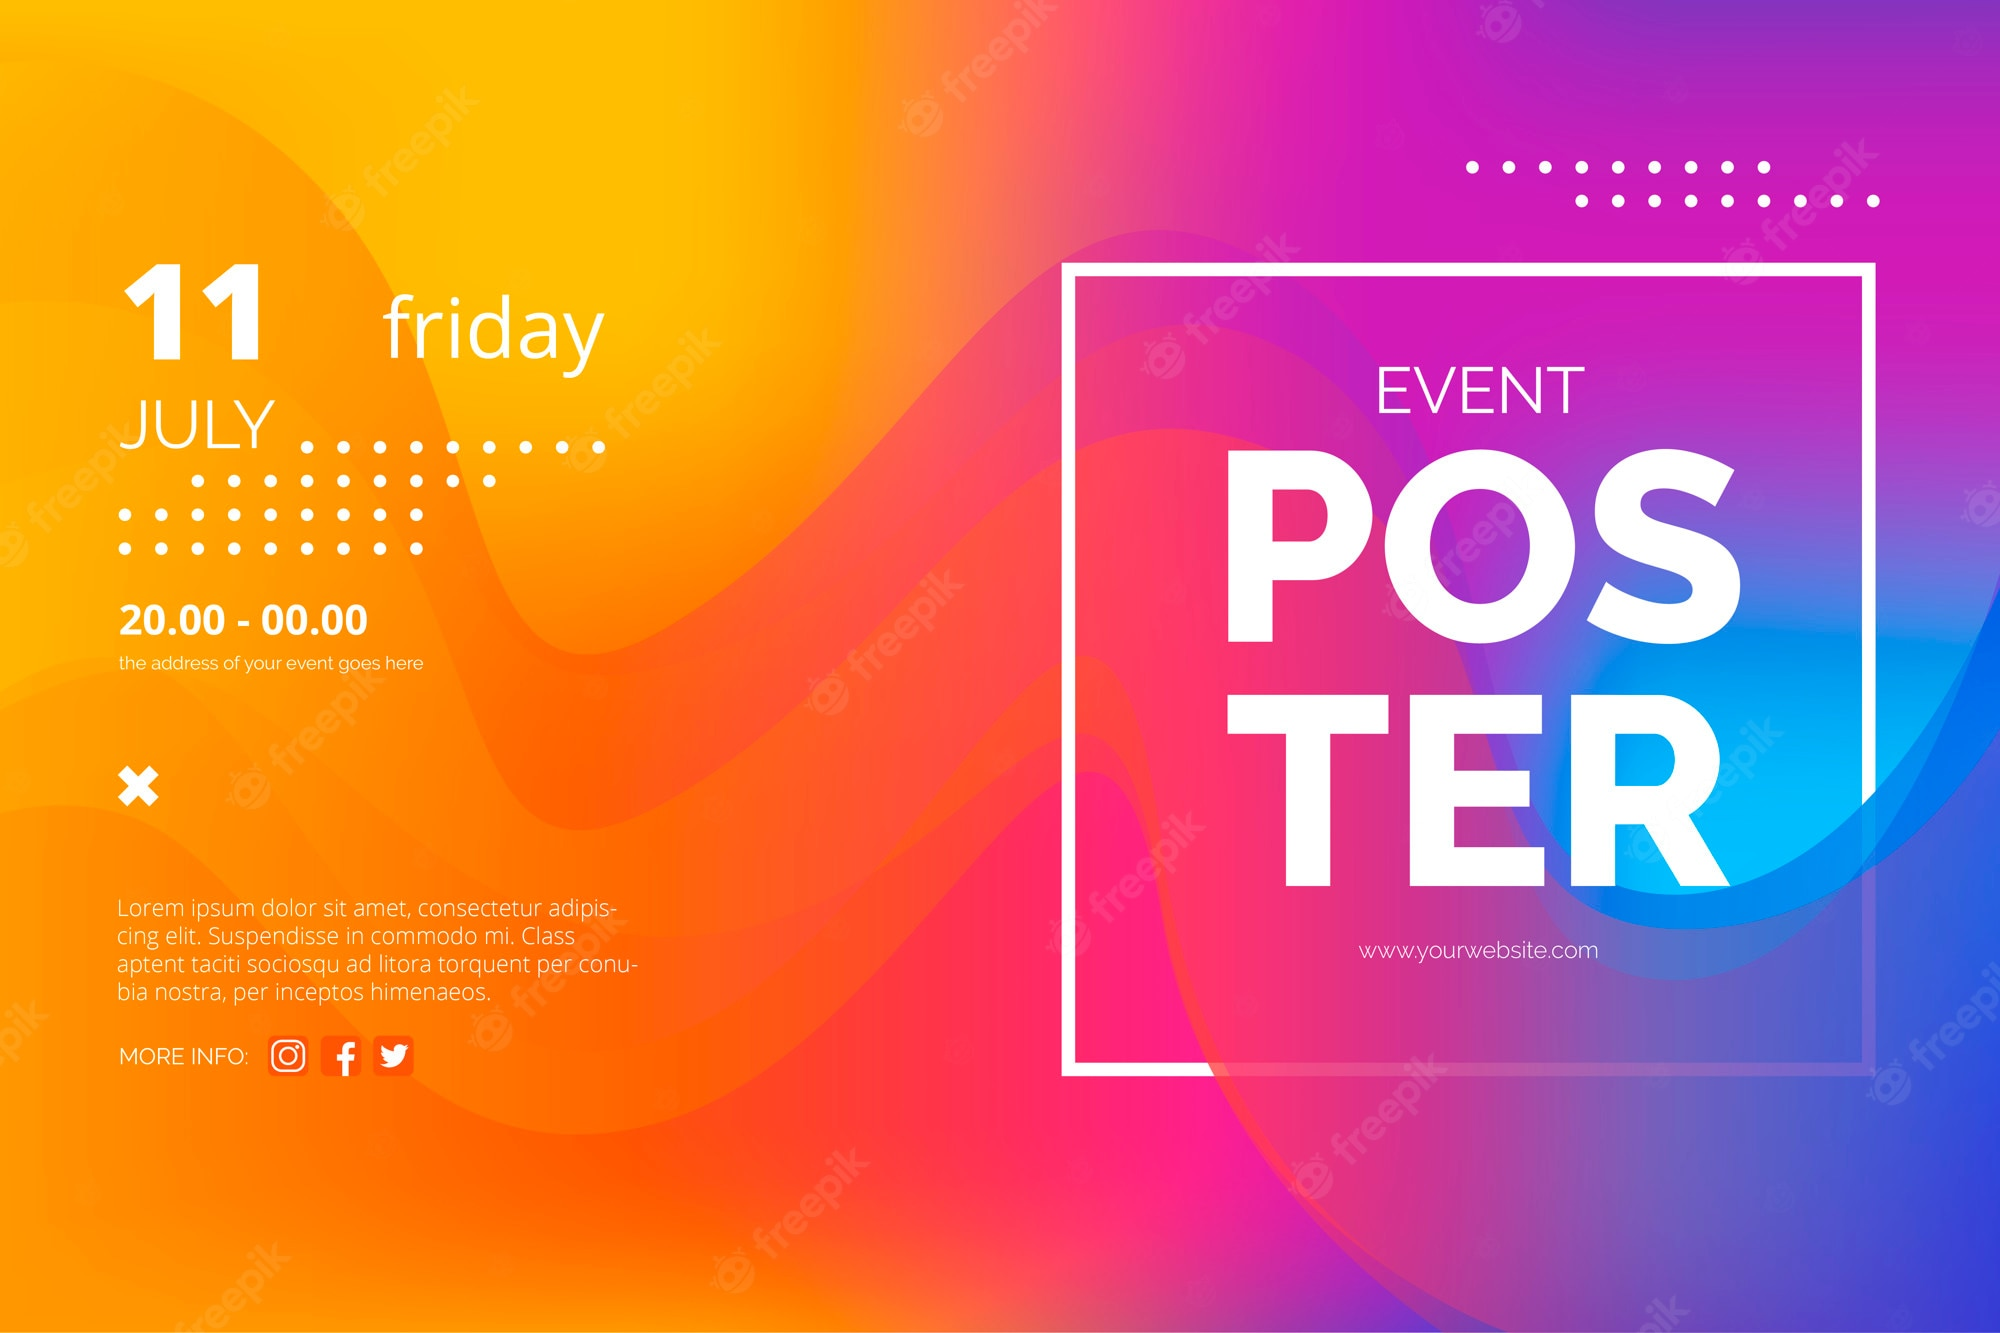
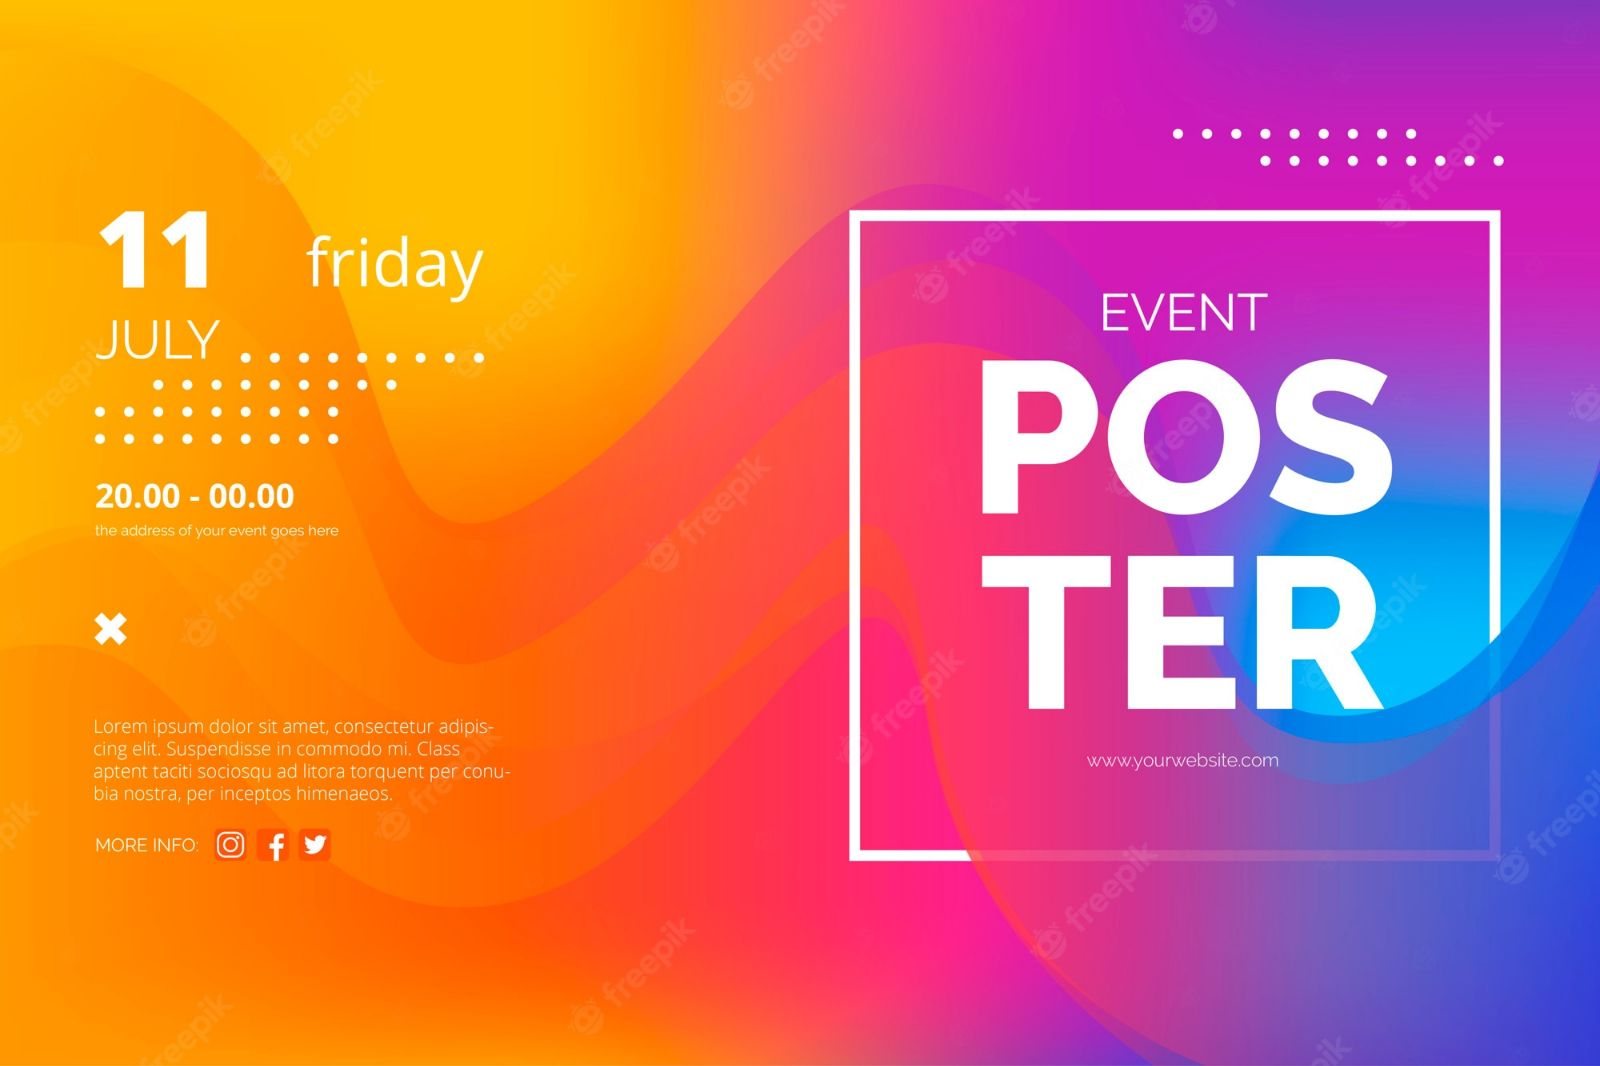
replace image with compressed version

diff --git a/frontend/src/theme/variables.css b/frontend/src/theme/variables.css
@@ -22,7 +22,7 @@ http://ionicframework.com/docs/theming/ */
 /** Ionic CSS Variables **/
 :root {
   /** primary **/
-  background-image: url("../img/bgimage.png");
+  background-image: url("../img/bgimage.jpg");
   background-size: cover;
   --ion-color-primary: #3880ff;
   --ion-color-primary-rgb: 56, 128, 255;

diff --git a/frontend/src/pages/css/Login.css b/frontend/src/pages/css/Login.css
@@ -1,5 +1,5 @@
 .background {
-  --background: #fff url("../../img/bgimage.png") no-repeat center center /
+  --background: #fff url("../../img/bgimage.jpg") no-repeat center center /
     cover;
   display: flex;
   justify-content: center;
